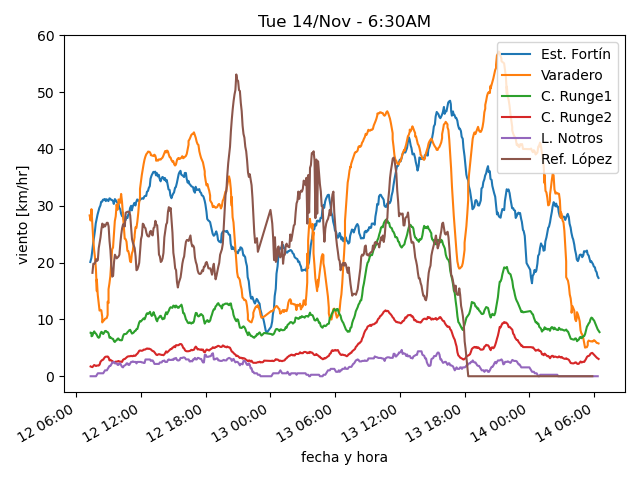
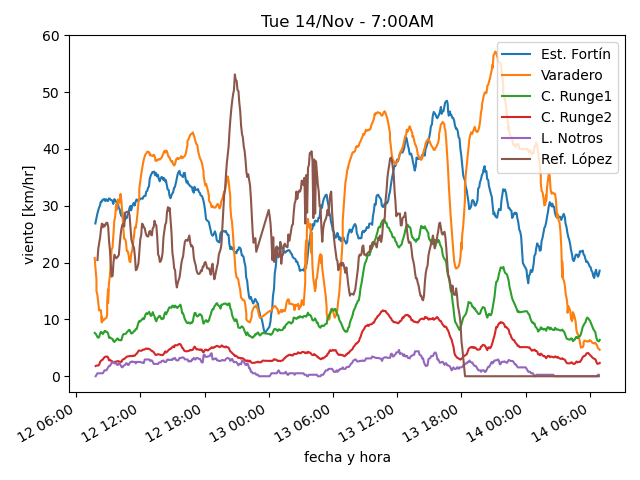
actualiza datos

diff --git a/estaciones/estacion4.html b/estaciones/estacion4.html
@@ -18,32 +18,32 @@
     </tr>
     <tr>
      <td class="stats_data">
-      6:24AM
+      6:54AM
      </td>
     </tr>
     <tr>
      <td class="stats_data">
-      0.6⁰C
+      0.7⁰C
      </td>
     </tr>
     <tr>
      <td class="stats_data">
-      -5.7⁰C
+      -5.9⁰C
      </td>
     </tr>
     <tr>
      <td class="stats_data">
-      62.8%
+      61.2%
      </td>
     </tr>
     <tr>
      <td class="stats_data">
-      1012.53hPa
+      1012.63hPa
      </td>
     </tr>
     <tr>
      <td class="stats_data">
-      1.8/3.5 km/hr SW
+      1.7/3.1 km/hr SSW
      </td>
     </tr>
     <tr>
@@ -58,7 +58,7 @@
     </tr>
     <tr>
      <td class="stats_data">
-      5.1 W/m²
+      19.4 W/m²
      </td>
     </tr>
    </tbody>

diff --git a/estaciones/estacion3.html b/estaciones/estacion3.html
@@ -18,12 +18,12 @@
     </tr>
     <tr>
      <td class="stats_data">
-      6:29AM
+      6:54AM
      </td>
     </tr>
     <tr>
      <td class="stats_data">
-      0.7⁰C
+      1.3⁰C
      </td>
     </tr>
     <tr>
@@ -33,17 +33,17 @@
     </tr>
     <tr>
      <td class="stats_data">
-      65.5%
+      63.1%
      </td>
     </tr>
     <tr>
      <td class="stats_data">
-      1004.13hPa
+      1004.03hPa
      </td>
     </tr>
     <tr>
      <td class="stats_data">
-      5.6/8.4 km/hr SW
+      5.5/8.2 km/hr WSW
      </td>
     </tr>
     <tr>
@@ -58,7 +58,7 @@
     </tr>
     <tr>
      <td class="stats_data">
-      8.6 W/m²
+      25.6 W/m²
      </td>
     </tr>
    </tbody>

diff --git a/estaciones/estacion1.html b/estaciones/estacion1.html
@@ -18,22 +18,22 @@
     </tr>
     <tr>
      <td class="stats_data">
-      6:24AM
+      6:54AM
      </td>
     </tr>
     <tr>
      <td class="stats_data">
-      1.6⁰C
+      1.9⁰C
      </td>
     </tr>
     <tr>
      <td class="stats_data">
-      -3.6⁰C
+      -3.7⁰C
      </td>
     </tr>
     <tr>
      <td class="stats_data">
-      68.3%
+      66.3%
      </td>
     </tr>
     <tr>
@@ -43,7 +43,7 @@
     </tr>
     <tr>
      <td class="stats_data">
-      10.2/18.8 km/hr WSW
+      9.7/24.1 km/hr W
      </td>
     </tr>
     <tr>
@@ -58,7 +58,7 @@
     </tr>
     <tr>
      <td class="stats_data">
-      9.0 W/m²
+      58.0 W/m²
      </td>
     </tr>
    </tbody>

diff --git a/estaciones/estacion2.html b/estaciones/estacion2.html
@@ -18,22 +18,22 @@
     </tr>
     <tr>
      <td class="stats_data">
-      6:24AM
+      6:54AM
      </td>
     </tr>
     <tr>
      <td class="stats_data">
-      2.2⁰C
+      2.3⁰C
      </td>
     </tr>
     <tr>
      <td class="stats_data">
-      -4.5⁰C
+      -4.0⁰C
      </td>
     </tr>
     <tr>
      <td class="stats_data">
-      61.3%
+      63.2%
      </td>
     </tr>
     <tr>
@@ -43,7 +43,7 @@
     </tr>
     <tr>
      <td class="stats_data">
-      3.7/5.2 km/hr SSW
+      3.2/4.4 km/hr SSW
      </td>
     </tr>
     <tr>
@@ -58,7 +58,7 @@
     </tr>
     <tr>
      <td class="stats_data">
-      5.6 W/m²
+      33.4 W/m²
      </td>
     </tr>
    </tbody>

diff --git a/estaciones/estacion6.html b/estaciones/estacion6.html
@@ -18,17 +18,17 @@
     </tr>
     <tr>
      <td class="stats_data">
-      5:50AM
+      6:50AM
      </td>
     </tr>
     <tr>
      <td class="stats_data">
-      -5.5⁰C
+      -5.7⁰C
      </td>
     </tr>
     <tr>
      <td class="stats_data">
-      -7.0⁰C
+      -7.2⁰C
      </td>
     </tr>
     <tr>
@@ -38,7 +38,7 @@
     </tr>
     <tr>
      <td class="stats_data">
-      1015.41hPa
+      1015.58hPa
      </td>
     </tr>
     <tr>
@@ -58,7 +58,7 @@
     </tr>
     <tr>
      <td class="stats_data">
-      899.0 W/m²
+      900.0 W/m²
      </td>
     </tr>
    </tbody>

diff --git a/estaciones/estacion5.html b/estaciones/estacion5.html
@@ -18,27 +18,27 @@
     </tr>
     <tr>
      <td class="stats_data">
-      6:20AM
+      6:50AM
      </td>
     </tr>
     <tr>
      <td class="stats_data">
-      -0.3⁰C
+      0.1⁰C
      </td>
     </tr>
     <tr>
      <td class="stats_data">
-      -4.0⁰C
+      -3.9⁰C
      </td>
     </tr>
     <tr>
      <td class="stats_data">
-      76.0%
+      74.0%
      </td>
     </tr>
     <tr>
      <td class="stats_data">
-      1018.22hPa
+      1018.08hPa
      </td>
     </tr>
     <tr>
